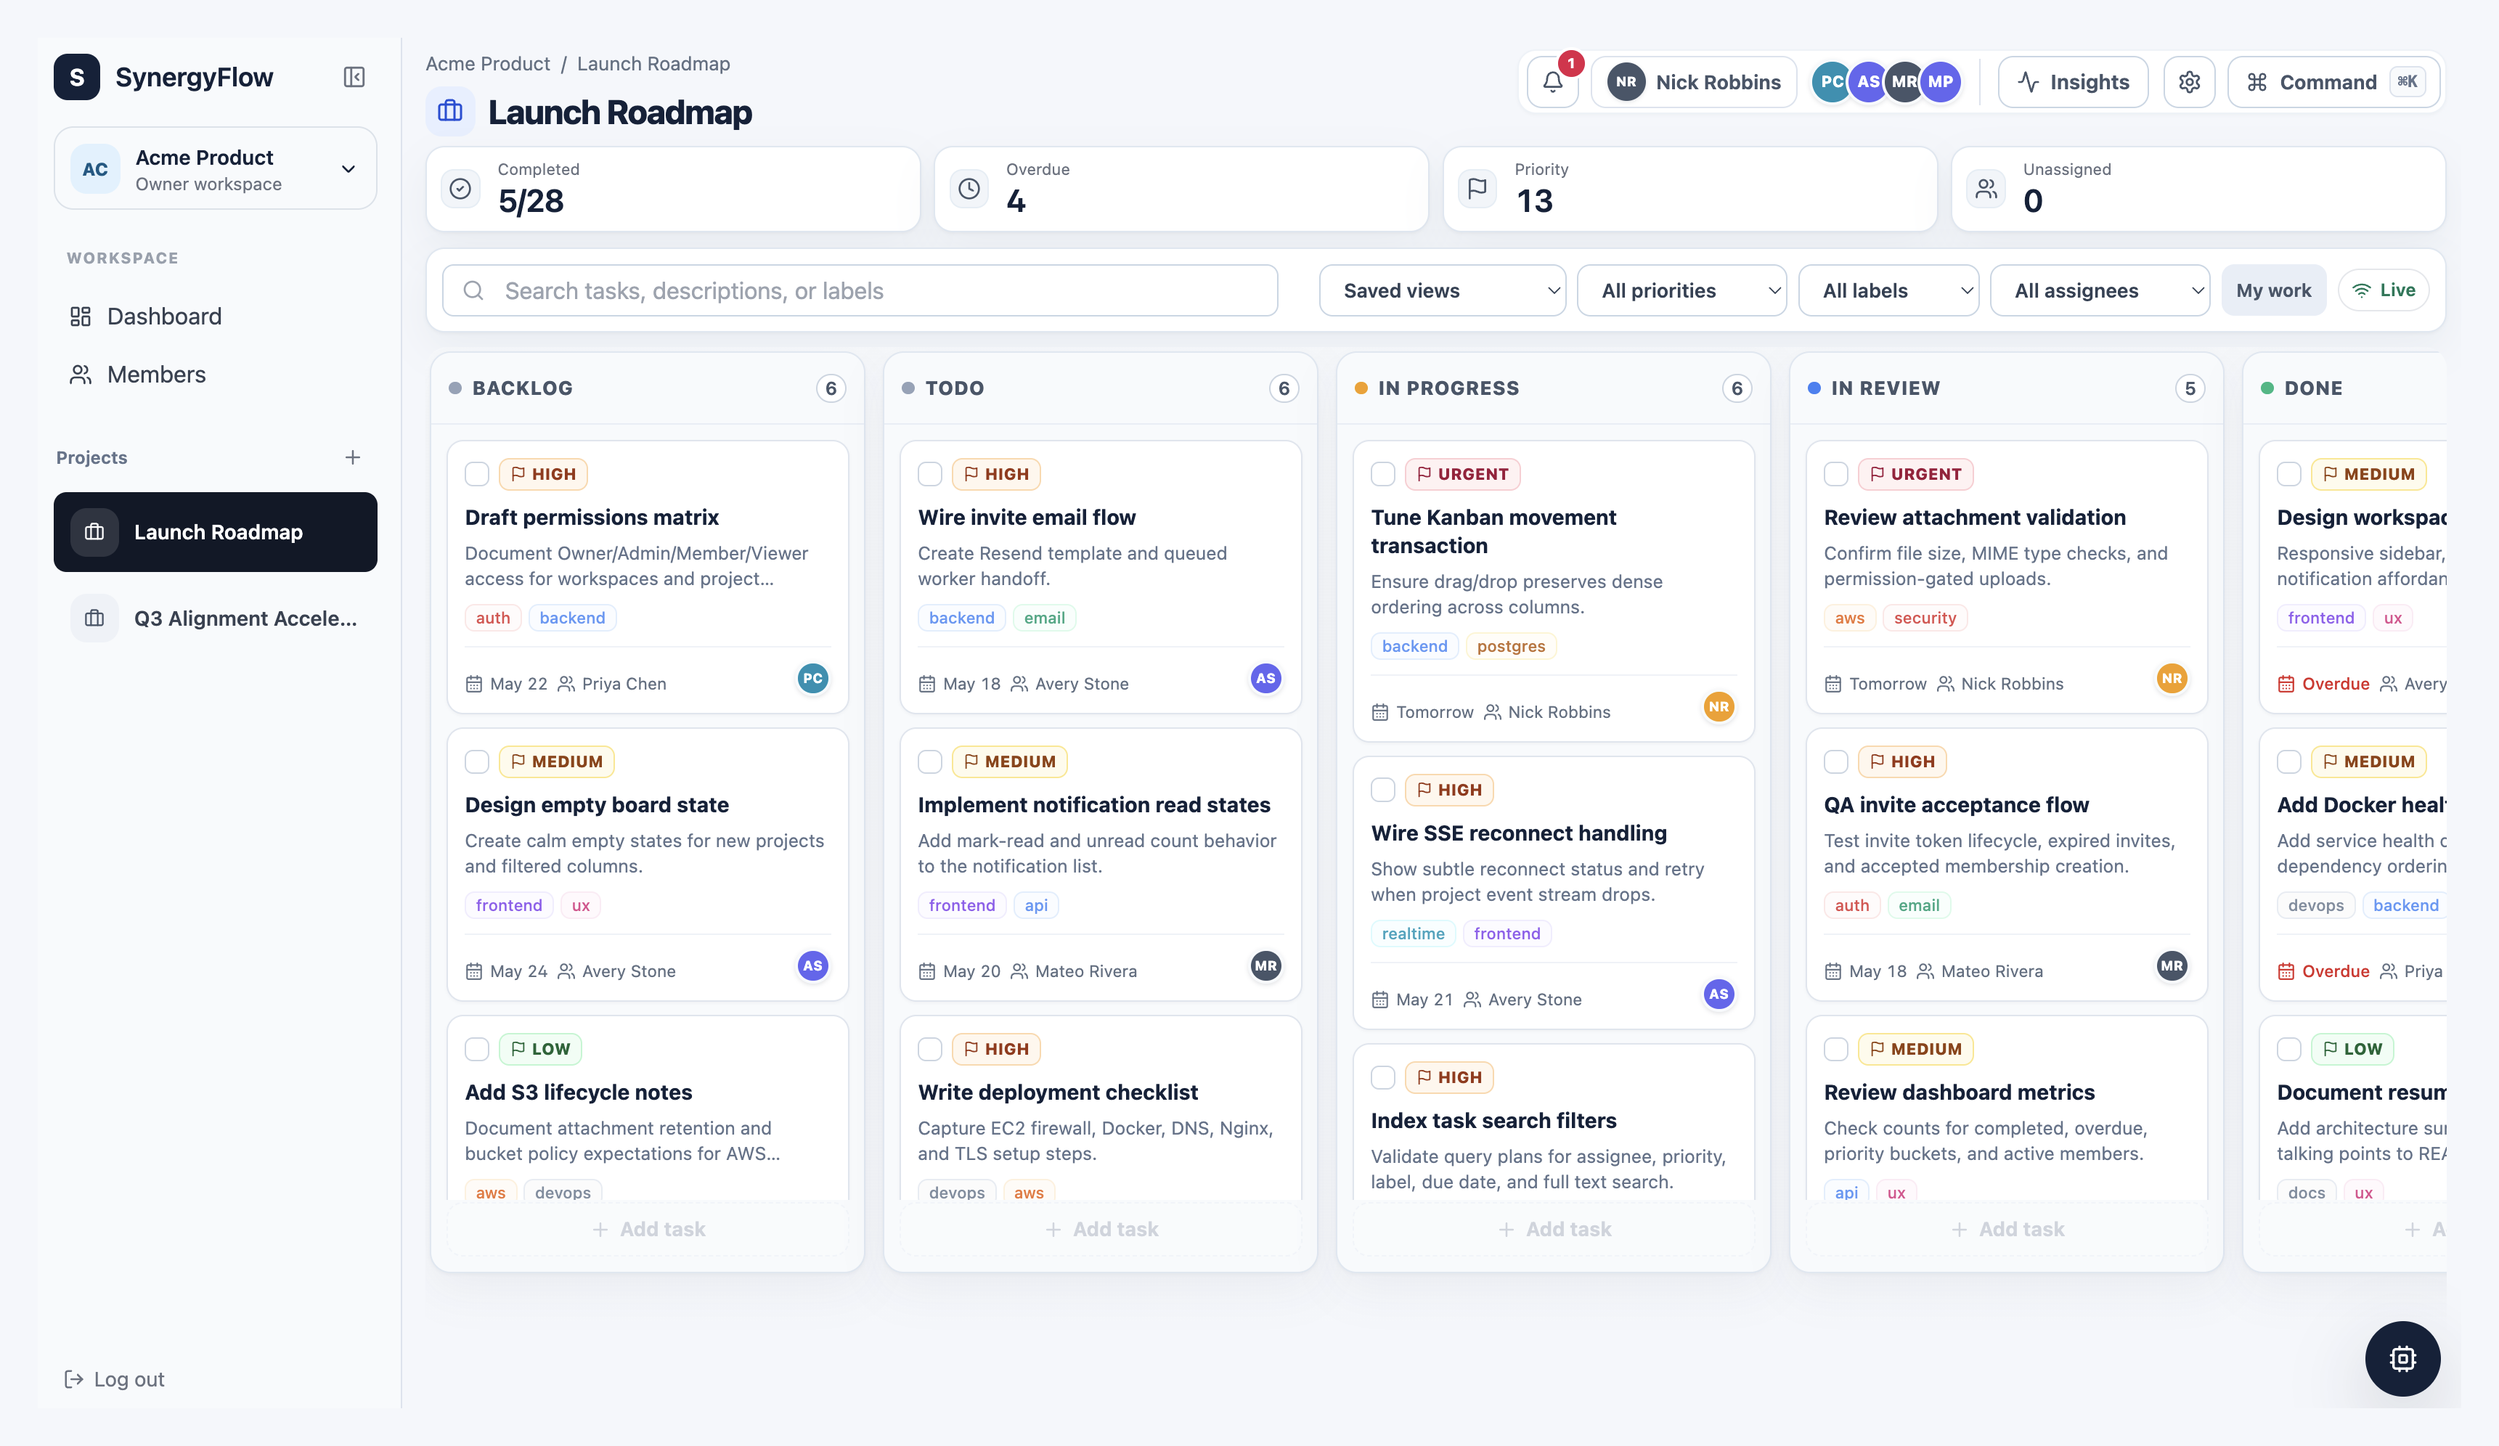
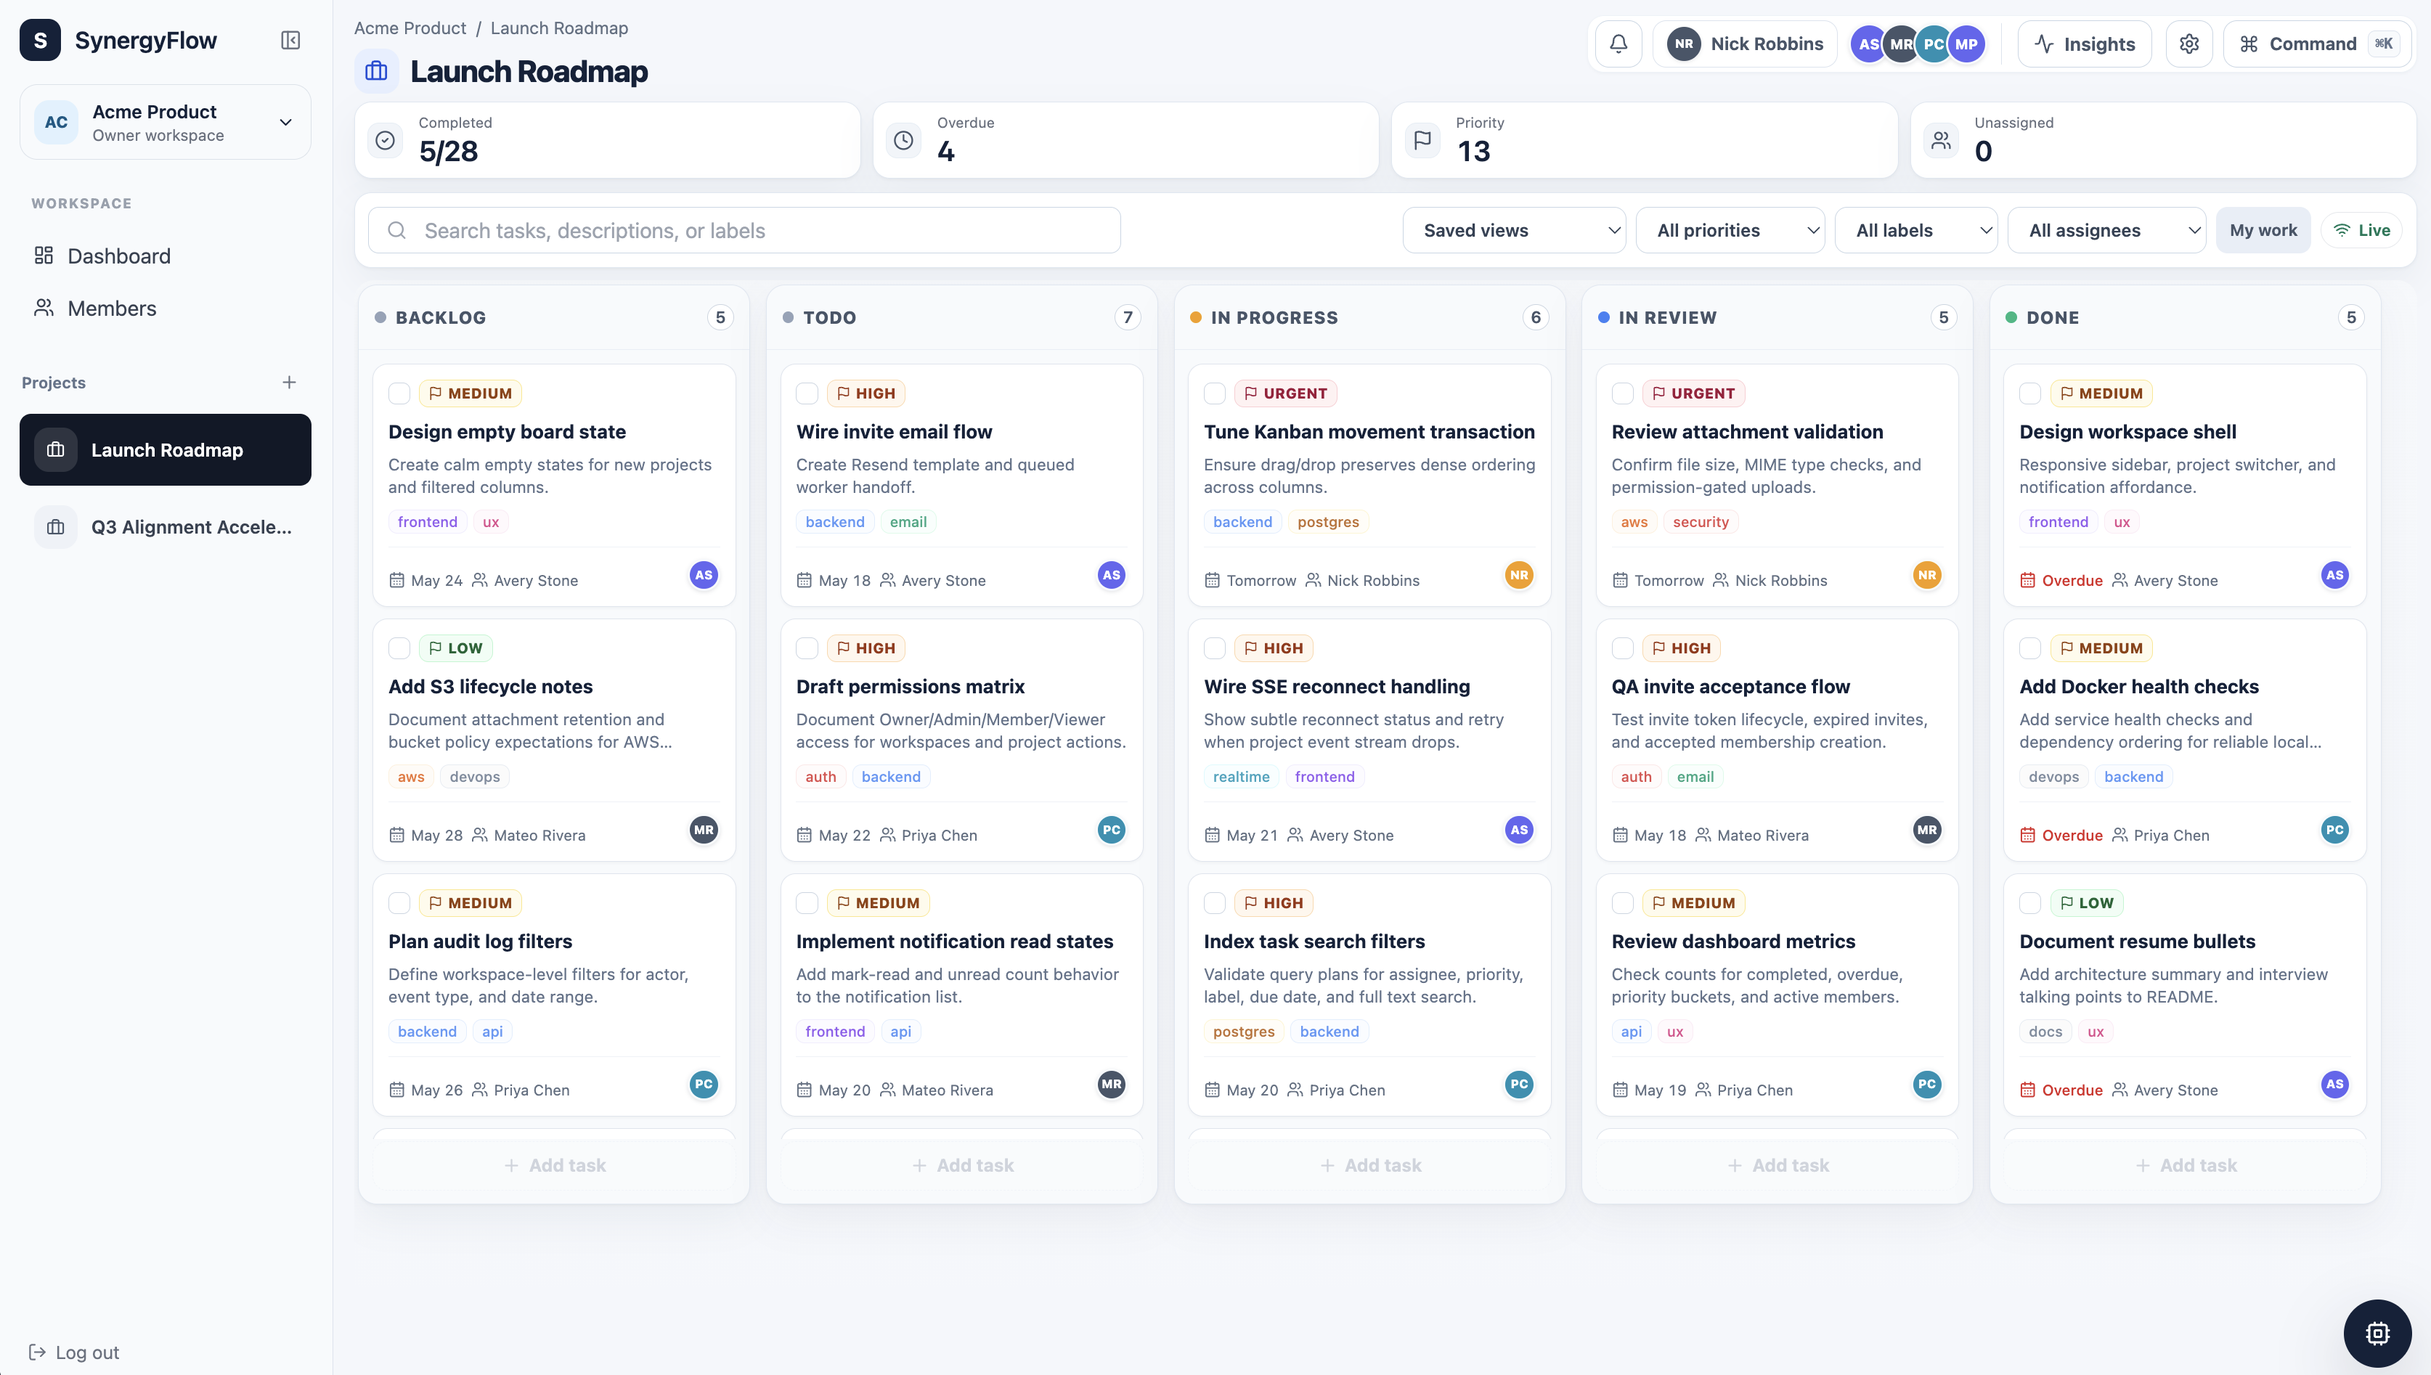
more screenshots

diff --git a/README.md b/README.md
@@ -8,6 +8,8 @@
 ![Docker](https://img.shields.io/badge/Docker-2496ED?style=flat&logo=docker&logoColor=white)
 ![GitHub Actions](https://img.shields.io/badge/GitHub_Actions-2088FF?style=flat&logo=githubactions&logoColor=white)
 
+![Kanban Board](asset/board.png)
+
 **An enterprise-grade, agentic-first, cross-functional delivery intelligence substrate engineered to transmute fragmented execution chaos into stakeholder-resonant, outcome-aligned, mission-critical operational momentum.** Powered by a cloud-native, event-driven, polyglot microservice mesh spanning Go, PostgreSQL, Redis, React, and Docker — converging JWT-hardened identity governance, permission-stratified workspace orchestration, drag-and-drop Kanban execution choreography, S3-compatible document-synergy materialization, ambient activity telemetry, full-text knowledge traversal, notificationized awareness propagation, Server-Sent Event consciousness streaming, and a next-generation deterministic AI Project Analyst purpose-built to convert raw delivery entropy into executive-ready unblockment primitives.
 
 ## What it demonstrates
@@ -22,15 +24,18 @@
 - Deterministic AI Project Analyst ingesting live PostgreSQL delivery signals to surface health telemetry, risk crystallization, workload thermodynamics, and next-action vector synthesis — no hallucination surface area
 - Executive-grade dashboard emitting completion momentum indicators, risk composition donut visualizations, assignee workload saturation bars, activity pulse trend lines, and status distribution at-a-glance strategic clarity artifacts
 - Dockerized deployment topology behind Nginx with health check instrumentation for production-grade operational confidence and local-to-cloud environment parity assurance
+
 ## Screenshots
 
 ![Dashboard](asset/dashboard.png)
 
-![Kanban Board](asset/board.png)
+![Members](asset/members.png)
 
-| Members & Roles | AI Project Analyst |
-|:---:|:---:|
-| ![Members](asset/members.png) | ![Chatbot](asset/chatbot.png) |
+![settings](asset/settings.png)
+
+![command](asset/command-center.png)
+
+![Chatbot](asset/chatbot.png)
 
 ## Tech stack
 
